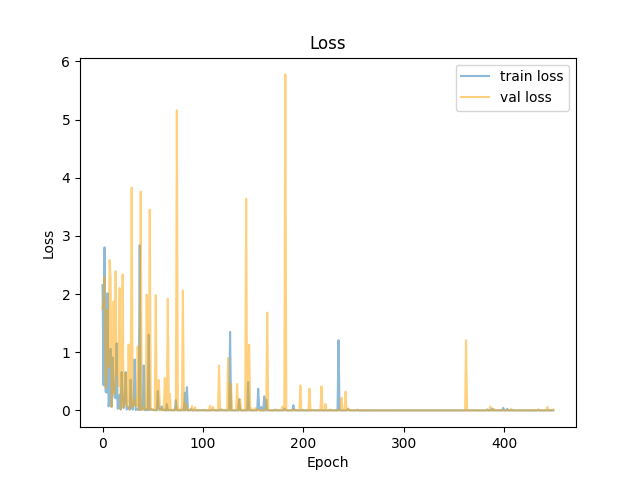
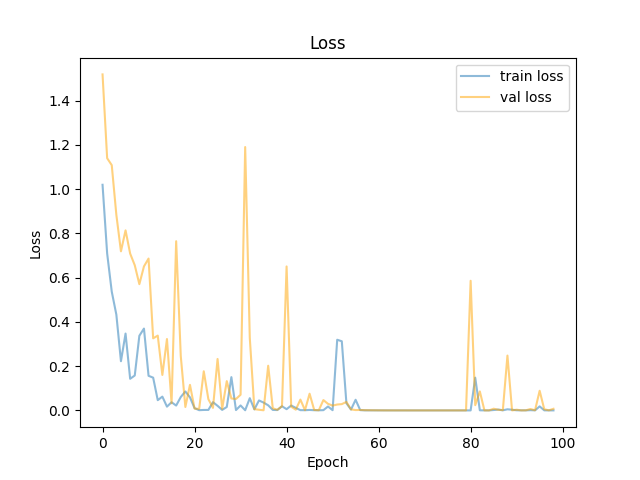
Added testing reports

diff --git a/Assignment 4/metrics/RNN_hw/q2_test.py b/Assignment 4/metrics/RNN_hw/q2_test.py
@@ -1,0 +1,104 @@
+import os
+from pprint import pprint
+
+os.environ['TF_CPP_MIN_LOG_LEVEL'] = '3'
+
+import tensorflow as tf
+import numpy as np
+import pandas as pd
+from data_loader import load_CV, data_loader_cv
+from tensorflow import keras
+import time
+from sklearn.metrics import classification_report
+
+###############     for CV dataset
+
+X_train, y_train, X_val, y_val, X_test, y_test = data_loader_cv()
+
+############### Load Rnn
+
+model = tf.keras.models.load_model('models/RNN_CV/model.h5')
+
+
+####################### train
+pred = []
+for i in X_train:
+  pred.append(np.argmax(model.predict(i.astype(np.float32))))
+
+y_train = np.argmax(y_train, axis = 2)
+
+cf = classification_report(y_train, pred)
+print(cf)
+with open('metrics/RNN_CV/train_report.txt', 'w') as f:
+  f.write(cf) 
+
+
+################## val
+pred = []
+for i in X_val:
+  pred.append(np.argmax(model.predict(i.astype(np.float32))))
+
+y_val = np.argmax(y_val, axis = 2)
+
+cf = classification_report(y_val, pred)
+print(cf)
+with open('metrics/RNN_CV/val_report.txt', 'w') as f:
+  f.write(cf) 
+
+
+################## test
+pred = []
+for i in X_test:
+  pred.append(np.argmax(model.predict(i.astype(np.float32))))
+
+y_test = np.argmax(y_test, axis = 2)
+
+cf = classification_report(y_test, pred)
+print(cf)
+with open('metrics/RNN_CV/test_report.txt', 'w') as f:
+  f.write(cf) 
+
+############################ LSTM
+
+############### Load Rnn
+
+model = tf.keras.models.load_model('models/LSTM_CV/model.h5')
+
+
+####################### train
+pred = []
+for i in X_train:
+  pred.append(np.argmax(model.predict(i.astype(np.float32))))
+
+y_train = np.argmax(y_train, axis = 2)
+
+cf = classification_report(y_train, pred)
+print(cf)
+with open('metrics/LSTM_CV/train_report.txt', 'w') as f:
+  f.write(cf) 
+
+
+################## val
+pred = []
+for i in X_val:
+  pred.append(np.argmax(model.predict(i.astype(np.float32))))
+
+y_val = np.argmax(y_val, axis = 2)
+
+cf = classification_report(y_val, pred)
+print(cf)
+with open('metrics/LSTM_CV/val_report.txt', 'w') as f:
+  f.write(cf) 
+
+
+################## test
+pred = []
+for i in X_test:
+  pred.append(np.argmax(model.predict(i.astype(np.float32))))
+
+y_test = np.argmax(y_test, axis = 2)
+
+cf = classification_report(y_test, pred)
+print(cf)
+with open('metrics/LSTM_CV/test_report.txt', 'w') as f:
+  f.write(cf) 

diff --git a/Assignment 4/metrics/RNN_hw/q1_test.py b/Assignment 4/metrics/RNN_hw/q1_test.py
@@ -1,0 +1,104 @@
+import os
+from pprint import pprint
+
+os.environ['TF_CPP_MIN_LOG_LEVEL'] = '3'
+
+import tensorflow as tf
+import numpy as np
+import pandas as pd
+from data_loader import load_hw, data_loader_cv
+from tensorflow import keras
+import time
+from sklearn.metrics import classification_report
+
+###############     for hw dataset
+
+X_train, y_train, X_val, y_val, X_test, y_test = load_hw()
+
+############### Load Rnn
+
+model = tf.keras.models.load_model('models/RNN_hw/model.h5')
+
+
+####################### train
+pred = []
+for i in X_train:
+  pred.append(np.argmax(model.predict(i.astype(np.float32))))
+
+y_train = np.argmax(y_train, axis = 2)
+
+cf = classification_report(y_train, pred)
+print(cf)
+with open('metrics/RNN_hw/train_report.txt', 'w') as f:
+  f.write(cf) 
+
+
+################## val
+pred = []
+for i in X_val:
+  pred.append(np.argmax(model.predict(i.astype(np.float32))))
+
+y_val = np.argmax(y_val, axis = 2)
+
+cf = classification_report(y_val, pred)
+print(cf)
+with open('metrics/RNN_hw/val_report.txt', 'w') as f:
+  f.write(cf) 
+
+
+################## test
+pred = []
+for i in X_test:
+  pred.append(np.argmax(model.predict(i.astype(np.float32))))
+
+y_test = np.argmax(y_test, axis = 2)
+
+cf = classification_report(y_test, pred)
+print(cf)
+with open('metrics/RNN_hw/test_report.txt', 'w') as f:
+  f.write(cf) 
+
+############################ LSTM
+
+############### Load Rnn
+
+model = tf.keras.models.load_model('models/LSTM_hw/model.h5')
+
+
+####################### train
+pred = []
+for i in X_train:
+  pred.append(np.argmax(model.predict(i.astype(np.float32))))
+
+y_train = np.argmax(y_train, axis = 2)
+
+cf = classification_report(y_train, pred)
+print(cf)
+with open('metrics/LSTM_hw/train_report.txt', 'w') as f:
+  f.write(cf) 
+
+
+################## val
+pred = []
+for i in X_val:
+  pred.append(np.argmax(model.predict(i.astype(np.float32))))
+
+y_val = np.argmax(y_val, axis = 2)
+
+cf = classification_report(y_val, pred)
+print(cf)
+with open('metrics/LSTM_hw/val_report.txt', 'w') as f:
+  f.write(cf) 
+
+
+################## test
+pred = []
+for i in X_test:
+  pred.append(np.argmax(model.predict(i.astype(np.float32))))
+
+y_test = np.argmax(y_test, axis = 2)
+
+cf = classification_report(y_test, pred)
+print(cf)
+with open('metrics/LSTM_hw/test_report.txt', 'w') as f:
+  f.write(cf) 

diff --git a/Assignment 4/q1.py b/Assignment 4/q1.py
@@ -112,6 +112,12 @@ model.save('models/LSTM_hw/model.h5')
 
 acc = pd.read_csv('metrics/LSTM_hw/acc.txt', header=None).values
 loss = pd.read_csv('metrics/LSTM_hw/loss.txt', header=None).values
+val_loss = pd.read_csv('metrics/LSTM_hw/val_loss.txt', header=None).values
+
+loss_c = loss.copy()
+loss = [np.average(loss[i : i+ 2]) for i in range(0,len(loss_c)-2,2)]
+
+vloss = [np.average(val_loss[i : i+ 2]) for i in range(0,len(val_loss)-2,2)]
 
 # Plots
 import matplotlib.pyplot as plt
@@ -125,8 +131,8 @@ plt.savefig('metrics/LSTM_hw/acc.png')
 plt.show()
 
 #plot loss
-plt.plot(loss[::2], alpha = 0.5)
-plt.plot(vloss[::2], c = 'orange', alpha = 0.5)
+plt.plot(loss, alpha = 0.5)
+plt.plot(vloss[:len(loss)], c = 'orange', alpha = 0.5)
 plt.title('Loss')
 plt.xlabel('Epoch')
 plt.ylabel('Loss')

diff --git a/Assignment 4/q2_lstm.py b/Assignment 4/q2_lstm.py
@@ -114,6 +114,12 @@ model.save('models/LSTM_CV/model.h5')
 acc = pd.read_csv('metrics/LSTM_CV/acc.txt', header=None).values
 loss = pd.read_csv('metrics/LSTM_CV/loss.txt', header=None).values
 
+val_loss = pd.read_csv('metrics/LSTM_CV/val_loss.txt', header=None).values
+
+loss_c = loss.copy()
+loss = [np.average(loss[i : i+ 9]) for i in range(0,len(loss_c)-9,9)]
+
+vloss = [np.average(val_loss[i : i+ 9]) for i in range(0,len(val_loss)-9,9)]
 # Plots
 import matplotlib.pyplot as plt
 
@@ -126,8 +132,8 @@ plt.savefig('metrics/LSTM_CV/acc.png')
 plt.show()
 
 #plot loss
-plt.plot(loss[::2], alpha = 0.5)
-plt.plot(vloss[::2], c = 'orange', alpha = 0.5)
+plt.plot(loss, alpha = 0.5)
+plt.plot(vloss, c = 'orange', alpha = 0.5)
 plt.title('Loss')
 plt.xlabel('Epoch')
 plt.ylabel('Loss')

diff --git a/Assignment 4/q1_rnn.py b/Assignment 4/q1_rnn.py
@@ -114,6 +114,13 @@ model.save('models/RNN_hw/model.h5')
 
 acc = pd.read_csv('metrics/RNN_hw/acc.txt', header=None).values
 loss = pd.read_csv('metrics/RNN_hw/loss.txt', header=None).values
+val_loss = pd.read_csv('metrics/RNN_hw/val_loss.txt', header=None).values
+
+loss_c = loss.copy()
+loss = [np.average(loss[i : i+ 2]) for i in range(0,len(loss_c)-2,2)]
+
+vloss = [np.average(val_loss[i : i+ 2]) for i in range(0,len(val_loss)-2,2)]
+
 
 # Plots
 import matplotlib.pyplot as plt
@@ -127,8 +134,8 @@ plt.savefig('metrics/RNN_hw/acc.png')
 plt.show()
 
 #plot loss
-plt.plot(loss[::2], alpha = 0.5)
-plt.plot(vloss[::2], c = 'orange', alpha = 0.5)
+plt.plot(loss, alpha = 0.5)
+plt.plot(vloss, c = 'orange', alpha = 0.5)
 plt.title('Loss')
 plt.xlabel('Epoch')
 plt.ylabel('Loss')

diff --git a/Assignment 4/q2_rnn.py b/Assignment 4/q2_rnn.py
@@ -114,6 +114,12 @@ model.save('models/RNN_CV/model.h5')
 
 acc = pd.read_csv('metrics/RNN_CV/acc.txt', header=None).values
 loss = pd.read_csv('metrics/RNN_CV/loss.txt', header=None).values
+val_loss = pd.read_csv('metrics/RNN_CV/val_loss.txt', header=None).values
+
+loss_c = loss.copy()
+loss = [np.average(loss[i : i+ 9]) for i in range(0,len(loss_c)-9,9)]
+
+vloss = [np.average(val_loss[i : i+ 9]) for i in range(0,len(val_loss)-9,9)]
 
 # Plots
 import matplotlib.pyplot as plt
@@ -127,8 +133,8 @@ plt.savefig('metrics/RNN_CV/acc.png')
 plt.show()
 
 #plot loss
-plt.plot(loss[::2], alpha = 0.5)
-plt.plot(vloss[::2], c = 'orange', alpha = 0.5)
+plt.plot(loss, alpha = 0.5)
+plt.plot(vloss, c = 'orange', alpha = 0.5)
 plt.title('Loss')
 plt.xlabel('Epoch')
 plt.ylabel('Loss')
